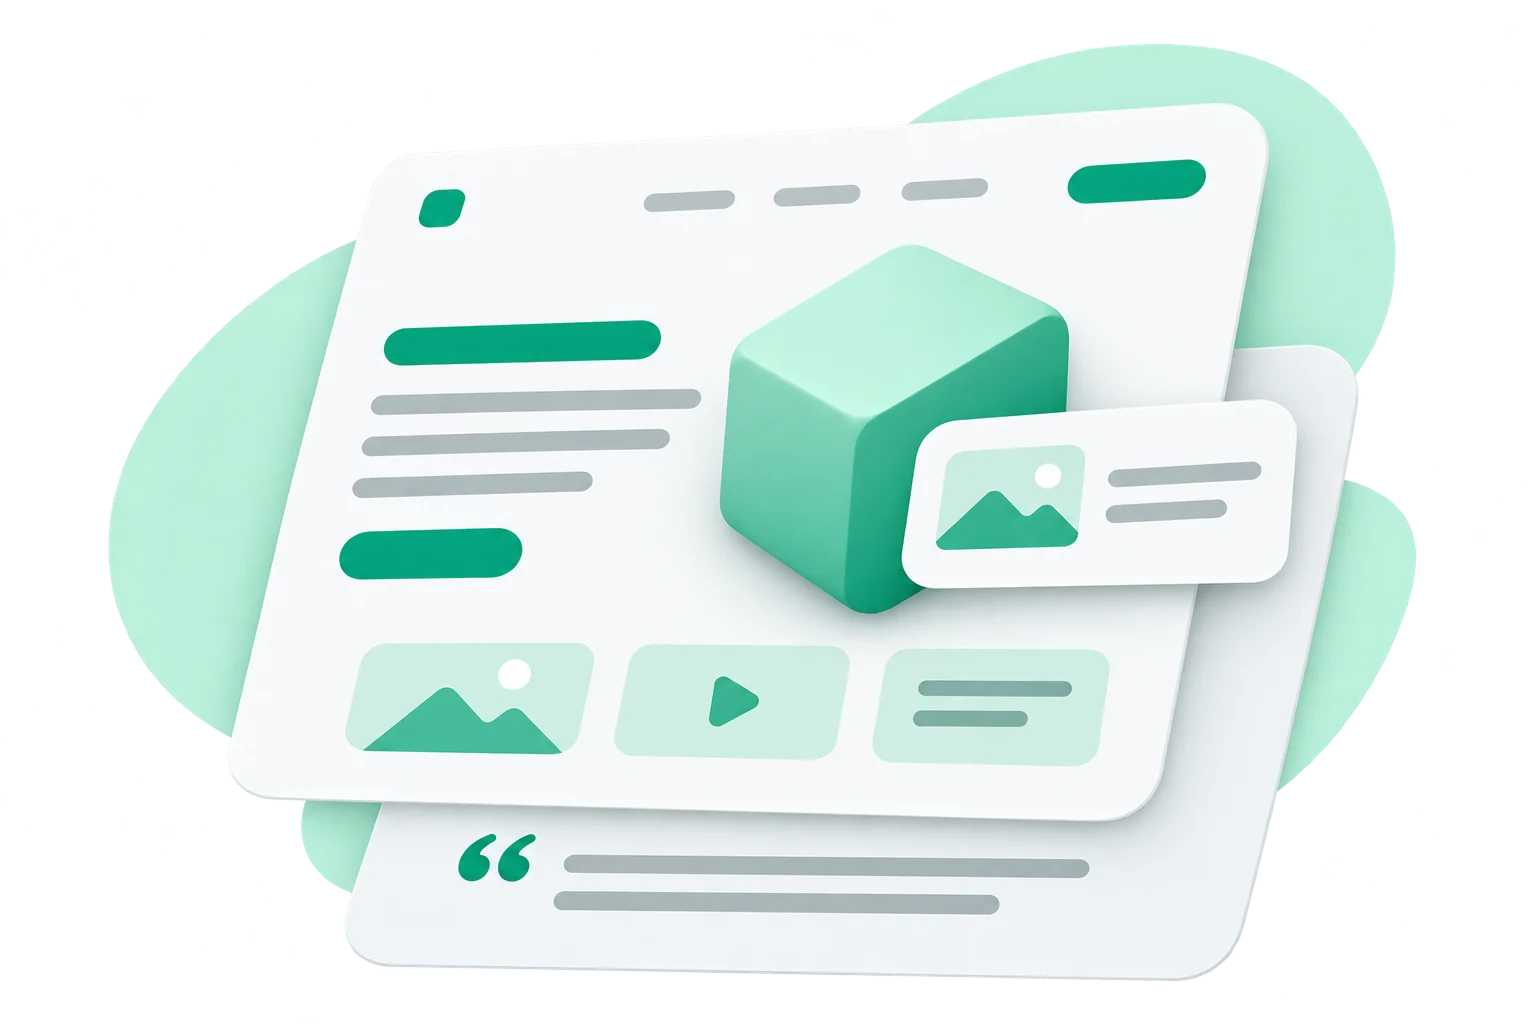
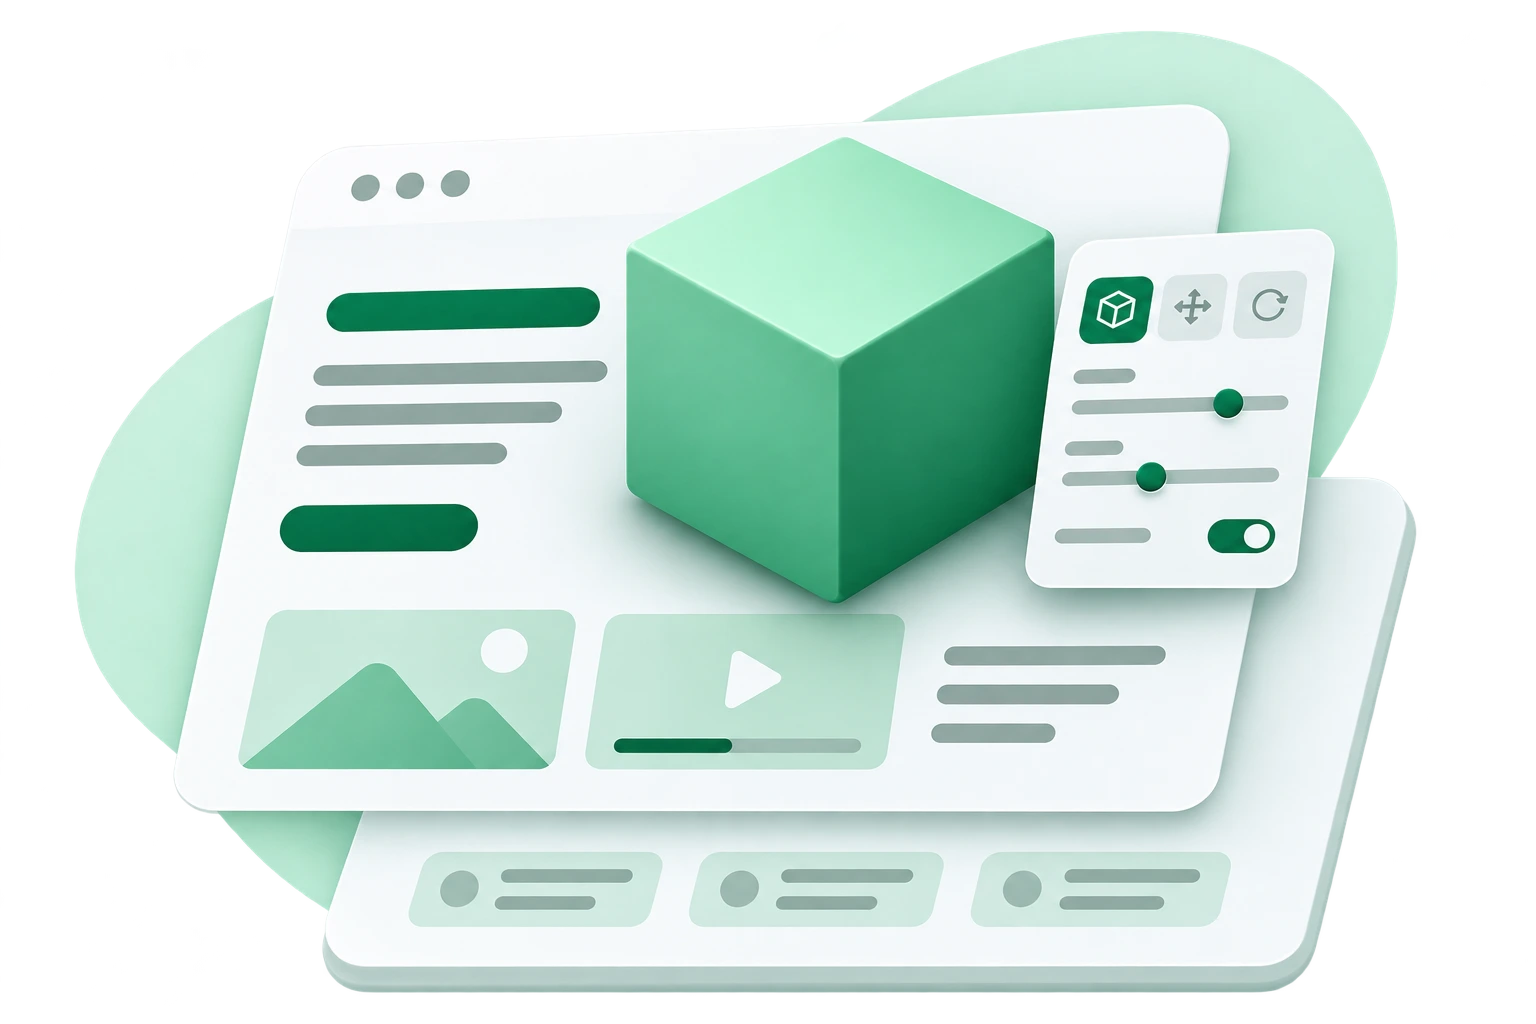
fix: align embedded panel edges and website control borders

diff --git a/tests/apps/showcase-borders.app.ts b/tests/apps/showcase-borders.app.ts
@@ -5,7 +5,7 @@ for (const enhanced of process.env.SPATIAL_GPU ? [false, true] : [false]) {
     if (!enhanced) await page.addInitScript(() => Object.defineProperty(navigator, 'gpu', { value: undefined }));
     await page.goto('/showcase/consumer/logitech-brio-500/');
     await expect(page.locator('.stage')).toHaveAttribute('data-stage-state', enhanced ? 'enhanced' : 'fallback', { timeout: 60000 });
-    await page.addStyleTag({ content: '.brand-stage-shell { --ps-border: rgb(200, 50, 30) !important; --ps-panel-border: rgb(30, 60, 200) !important; }' });
+    await page.addStyleTag({ content: '.ps-shell { --website-border: rgb(200, 50, 30) !important; --website-panel-border: rgb(30, 60, 200) !important; }' });
     await expect(page.locator('.satellite .appearance .ps-button-group').filter({ visible: true })).toHaveCSS('outline-color', 'rgb(200, 50, 30)');
     const dockEdge = await page.locator('.spatial-element-sticky-header').evaluate(el => {
       const css = getComputedStyle(el, '::before');
@@ -24,5 +24,21 @@ for (const enhanced of process.env.SPATIAL_GPU ? [false, true] : [false]) {
     const after = await panelEdge.boundingBox();
     expect(Math.abs(after!.width - before!.width)).toBeLessThan(1);
     expect(Math.abs(after!.height - before!.height)).toBeLessThan(1);
+    await page.setViewportSize({ width: 2456, height: 1000 });
+    await expect(panelEdge).toHaveCSS('border-top-width', '0px');
+    await expect(panelEdge).toHaveCSS('border-bottom-width', '0px');
+    await expect(panelEdge).toHaveCSS('border-left-width', '1px');
+    await expect(panelEdge).toHaveCSS('border-right-width', '1px');
+    await expect(panelEdge).toHaveCSS('border-radius', '0px');
+    await page.setViewportSize({ width: 600, height: 900 });
+    await page.evaluate(() => scrollTo(0, 0));
+    const search = page.getByRole('button', { name: 'Open search', exact: true });
+    await expect(search).toHaveCSS('background-color', 'rgba(0, 0, 0, 0)');
+    await expect(search).toHaveCSS('border-top-width', '0px');
+    await search.click();
+    await expect(search).toHaveAttribute('data-active', 'true');
+    await expect(search).not.toHaveCSS('background-color', 'rgba(0, 0, 0, 0)');
+    await search.click();
+    await expect(search).toHaveCSS('background-color', 'rgba(0, 0, 0, 0)');
   });
 }

diff --git a/packages/sveltekit/src/spatial-element/layout.generated.css b/packages/sveltekit/src/spatial-element/layout.generated.css
@@ -295,7 +295,7 @@
 		position: relative; top: auto; right: auto; width: 100%; margin: 0;
 	}
 	.stage [data-spatial-element-root]:not([data-spatial-detail-flow]) .spatial-element-pane-body .spatial-element-panel { max-height: none; border-radius: 0; }
-	.stage [data-spatial-element-root]:not([data-spatial-detail-flow]) .spatial-element-pane-body .spatial-element-panel > .stage-panel-surface > [data-stage-panel-content] > .panel-edge { display: none; }
+	.stage [data-spatial-element-root]:not([data-spatial-detail-flow]) .spatial-element-pane-body .spatial-element-panel > .stage-panel-surface > [data-stage-panel-content] > .panel-edge { border-block-width: 0; border-radius: 0 !important; }
 	.stage [data-spatial-element-root]:not([data-spatial-detail-flow]) .spatial-element-pane-body .spatial-summary-query { max-height: none; overflow: visible; overscroll-behavior: auto; }
 	.stage [data-spatial-element-root]:not([data-spatial-detail-flow]) .spatial-element-pane-body .spatial-element-panel .stage-panel-surface::before,
 	.stage [data-spatial-element-root]:not([data-spatial-detail-flow]) .spatial-element-pane-body .spatial-element-panel .stage-panel-surface::after { display: none; }

diff --git a/apps/website/src/app.css b/apps/website/src/app.css
@@ -21,8 +21,8 @@ body {
 /* Appearance is defined once in lib/theme.ts for Page Sections and spatial surfaces. */
 .ps-shell[data-ps-theme='light'] {
 	--ps-selection: #eeeeee;
-	--website-border: #dbdbdb;
-	--website-panel-border: #dbdbdb;
+	--website-border: #f00;
+	--website-panel-border: #f00;
 	--ps-shadow-color: #000;
 }
 .ps-shell[data-ps-theme='dark'] {
@@ -32,6 +32,7 @@ body {
 	--ps-shadow-color: #3f434b;
 }
 :where([data-website-theme='default']) .brand-stage-shell {
+	--ps-border: var(--website-border) !important;
 	--ps-panel-border: var(--website-panel-border) !important;
 }
 [data-website-theme='default'] .brand-stage-shell {

diff --git a/apps/website/src/routes/+page.svelte b/apps/website/src/routes/+page.svelte
@@ -29,6 +29,7 @@
 				width: 1536,
 				height: 1024
 			},
+			"imageSide": "left",
 			actions: [
 				{ label: 'Explore the showcase', href: '/showcase/', variant: 'primary' },
 				{ label: 'Get started', href: '/getting-started/', variant: 'secondary' }

diff --git a/apps/website/src/lib/SiteSearch.svelte b/apps/website/src/lib/SiteSearch.svelte
@@ -283,6 +283,9 @@
 	.site-search :global(.mobile-search) {
 		display: none;
 	}
+	.site-search :global(.mobile-search:not([data-active='true'])) {
+		background: transparent;
+	}
 	.site-search :global(.search-panel) {
 		top: 100%;
 		right: 0;
